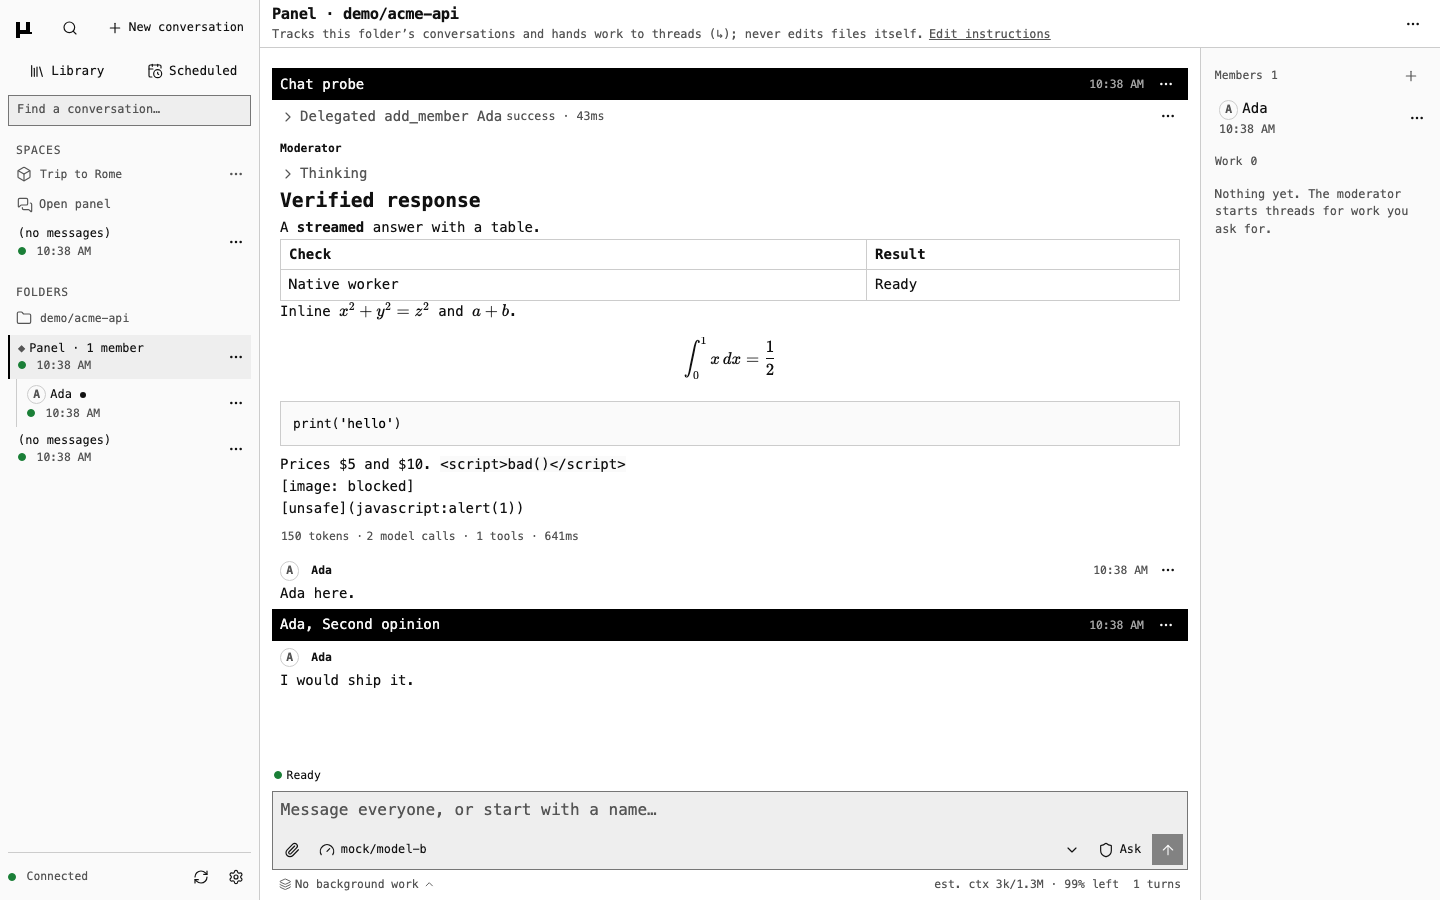
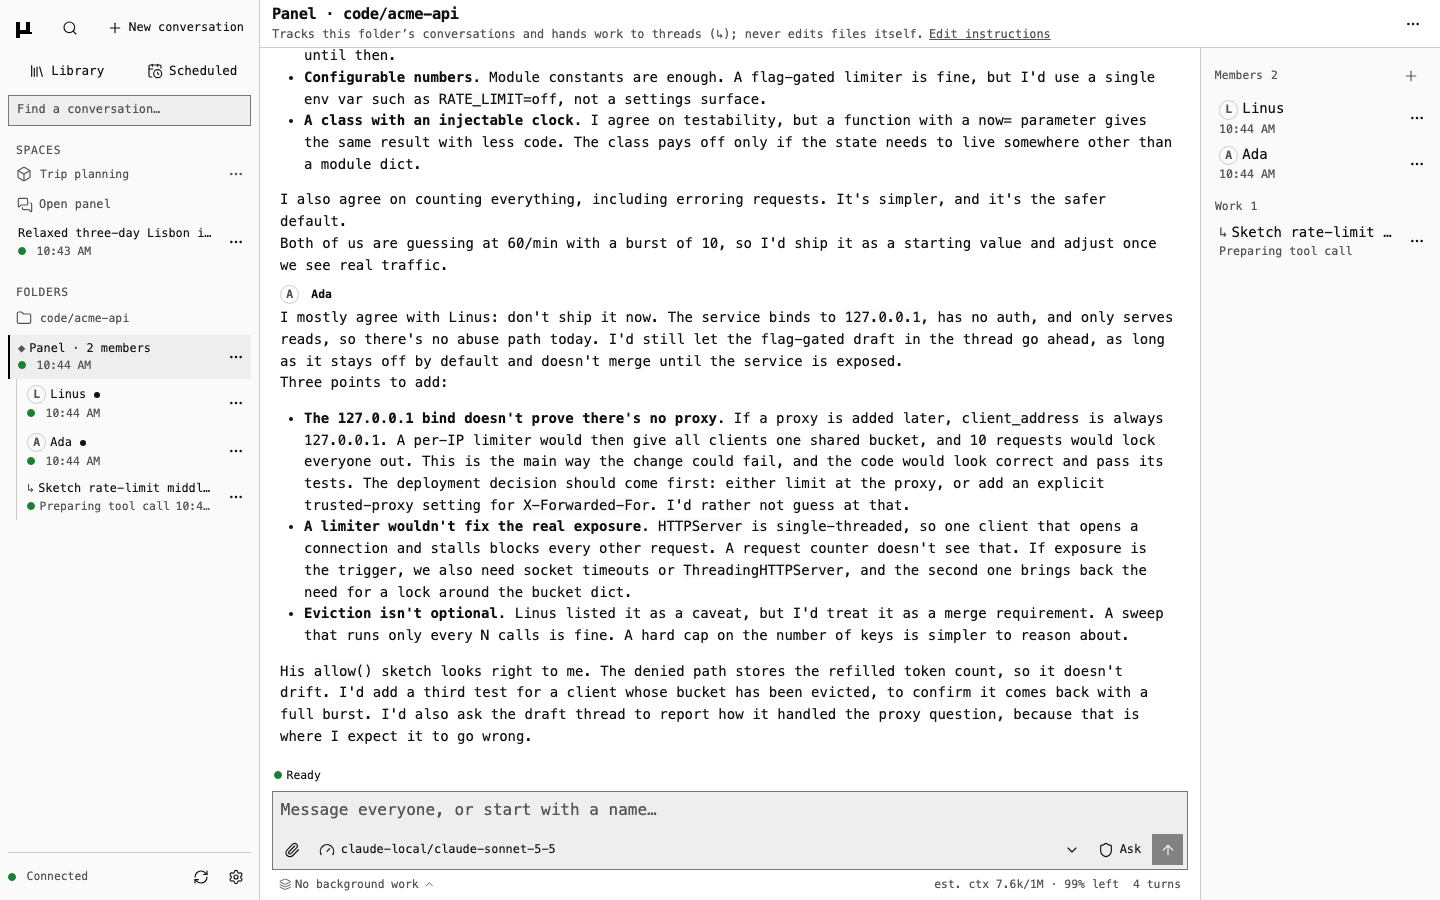
The README shows a real panel session and a terminal run, and states the fuzz and WebKit coverage exactly

diff --git a/README.md b/README.md
@@ -8,7 +8,7 @@ program with the web interface built in, which works in a terminal, from a
 script or in the browser on the same conversations, and runs its commands in a
 sandbox limited to your folder.
 
-![The web interface: a panel with a member in its chat, and the sidebar's spaces and folders](docs/images/web-panel.png)
+![The web interface: a folder's panel where the moderator and two members, Ada and Linus, discuss rate limiting, with a thread working and the sidebar listing a space and a folder](docs/images/web-panel.png)
 
 ## Highlights
 
@@ -25,6 +25,8 @@ sandbox limited to your folder.
 - **A panel for several agents.** A folder's panel hosts a chat with a
   moderator and members you add, and starts threads that do the work in
   parallel and report back.
+
+![The terminal: asking for a change, answering the approval prompts, and the result](docs/images/terminal.gif)
 
 ## How it's built
 
@@ -51,10 +53,9 @@ wire format.
 
 - **Tests run without a key or network.** 133 C++ unit cases, 284 Python
   integration tests against a mock provider (real binary, real PTY), 154
-  Playwright browser tests (Chromium, plus WebKit for the layout-sensitive
-  specs) and 62 Node unit tests.
+  Playwright browser tests (Chromium; a subset also runs in WebKit) and 62 Node unit tests.
 - **Fuzzing.** Two libFuzzer targets, the SSE stream decoder and the terminal
-  input decoder, run a short smoke on every CI run and weekly for longer.
+  input decoder, replay their corpus on every CI run and search for five minutes each, weekly.
 - **Static analysis.** clang-format, cpplint, clang-tidy with warnings as
   errors, and CodeQL.
 - **Sanitizers.** The suite also runs under ASan and UBSan, and under TSan.
